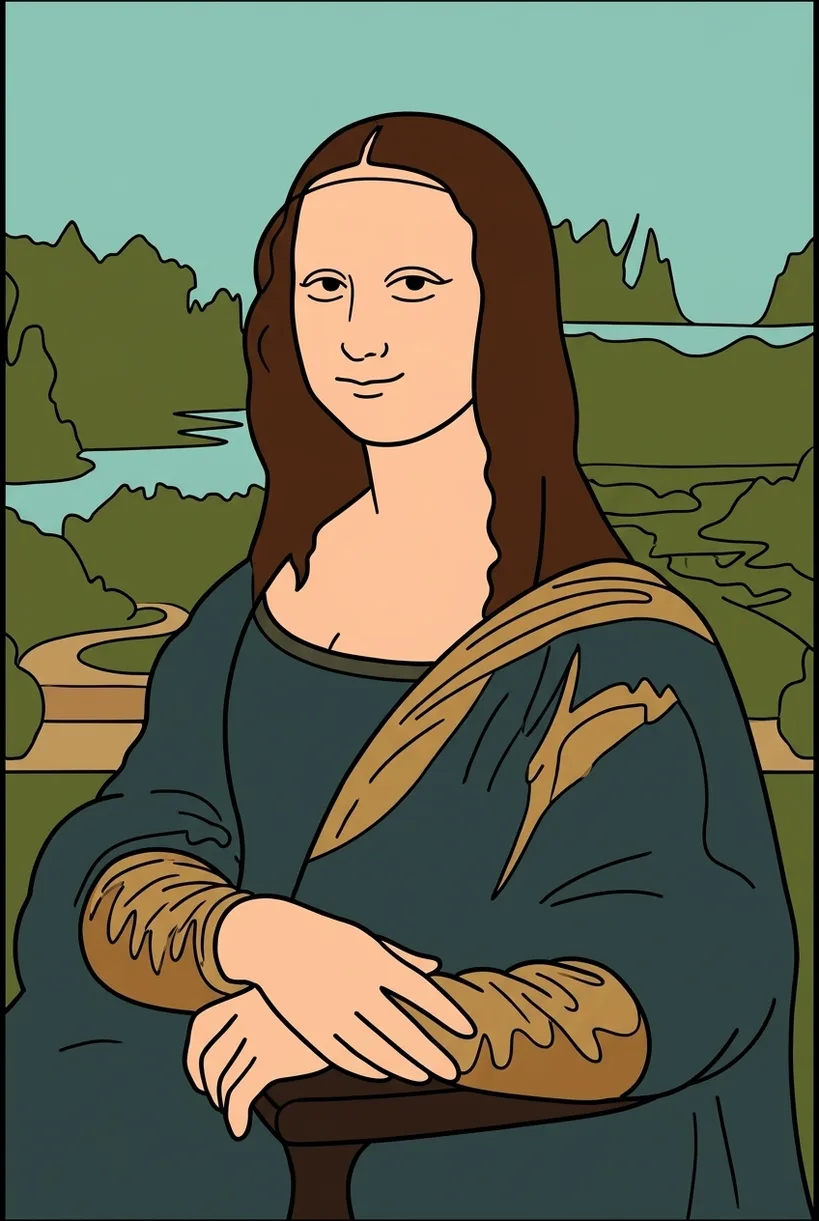
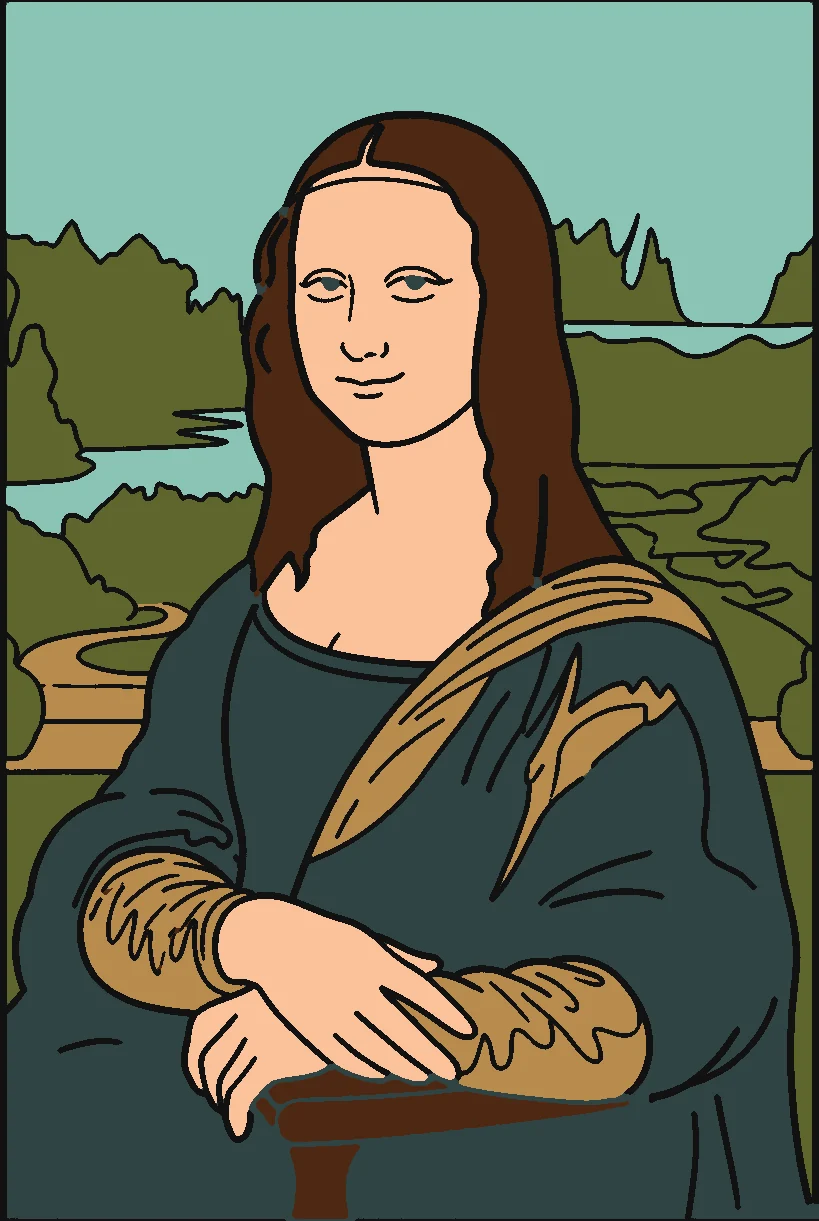
L'Atelier de Léonard : 5 nouveaux tableaux (10 au tirage), modèle aux couleurs exactes du score
Claude-Session: https://claude.ai/code/session_01Miffy7WnxFB7LzgFRDckk2

diff --git a/lib/en.js b/lib/en.js
@@ -851,6 +851,7 @@ E: {
   "Touchez un de vos pots de couleur, puis peignez du doigt sur le tableau. Si le tableau est plus grand que l'écran, faites-le défiler avec la réglette.":"Tap one of your paint pots, then paint on the painting with your finger. If the painting is bigger than the screen, scroll it with the bar.",
   "Choisissez un pot (clic ou touches 1 à 7) et peignez à la souris. La molette fait défiler les grands tableaux.":"Pick a pot (click or keys 1 to 7) and paint with the mouse. The wheel scrolls the big paintings.",
   "Grandes zones d'abord : un fond bien couvert rapporte plus qu'un visage soigné. Et parlez-vous : « qui a le bleu ? »":"Big areas first: a well covered background scores more than a careful face. And talk: “who has the blue?”",
+  "La Sainte Anne":"Saint Anne", "LA SAINTE ANNE":"SAINT ANNE", "La Madone à l'œillet":"Madonna of the Carnation", "LA MADONE À L'ŒILLET":"MADONNA OF THE CARNATION", "La Madone Benois":"Benois Madonna", "LA MADONE BENOIS":"BENOIS MADONNA",
   'Grand Prix Baston':'Grand Prix Baston', 'Grand Prix':'Grand Prix', 'Choisissez votre voiture':'Pick your car', 'Et votre bonus':'And your bonus', '✔ Je suis prêt':"✔ I'm ready", '✔ Prêt ! (changer)':'✔ Ready! (change)', 'Turbo nitro':'Nitro turbo', 'Aéro chasseur':'Fighter-jet aero', 'Pneus chewing-gum':'Chewing-gum tyres', 'Super coup de latte':'Super kick', 'Vos frappes : −10 % de vitesse en plus':'Your strikes: −10 % more speed', 'ZAP !':'ZAP!', 'POUET !':'HONK!', 'Formule':'Formula', 'Coccinelle':'Beetle', 'Fourgon':'Van', '⛽ Essence':'⛽ Fuel', '⛽ ACCÉLÉRER':'⛽ ACCELERATE', '▼ Freiner':'▼ Brake', '💥 FRAPPER':'💥 STRIKE', 'Partez !':'Go!', 'Raté !':'Missed!', 'Dernier tour !':'Last lap!', 'VICTOIRE !':'VICTORY!', '🏁 Arrivé':'🏁 Finished', 'Temps':'Time', 'Meilleur tour':'Best lap', 'Frappes':'Strikes', 'Encaissées':'Taken', 'BAM !':'BAM!', 'Le Ruban':'The Ribbon', 'Le Haricot':'The Bean', 'Le Serpent':'The Snake', 'La Corniche':'The Cliff Road', "L'Hippodrome":'The Racecourse',
   'Les blobs se réveillent…':'The blobs are waking up…', 'Poussez !':'Grow!', 'Fin de la culture':'End of the culture', 'Votre blob a disparu…':'Your blob has vanished…', 'VOTRE BLOB A GAGNÉ !':'YOUR BLOB WON!', 'Énergie':'Energy', 'Surface':'Area', 'Flocons':'Flakes', 'Volé':'Stolen', 'Miettes':'Crumbs',
   '▶ Lancer ce jeu':'▶ Launch this game',

diff --git a/index.html b/index.html
@@ -11771,6 +11771,11 @@ const LA_ART = {
   annonciation:{ n:'L\'Annonciation', w:1500, h:667, pal:['#b7c1c3', '#640d0d', '#98b290', '#ddaa56', '#274e57', '#e0af87', '#ecaa2e'] },
   rochers:{ n:'La Vierge aux rochers', w:794, h:1260, pal:['#b18541', '#394741', '#cad3cb', '#8b222e', '#92a3a3', '#0e5b62'] },
   cene:{ n:'La Cène', w:1386, h:721, pal:['#b58f33', '#f2ecd1', '#413121', '#e42929', '#164c6f', '#c2ac7d', '#3d643d'] },
+  sainteanne:{ n:'La Sainte Anne', w:863, h:1159, pal:['#265c34', '#c28c2a', '#62a8d0', '#dd522a', '#eda374', '#21488d'] },
+  ginevra:{ n:'Ginevra de\' Benci', w:971, h:1030, pal:['#9b6c18', '#f4eccb', '#020201', '#712335', '#7fb2cc'] },
+  ferronniere:{ n:'La Belle Ferronnière', w:832, h:1202, pal:['#911e2f', '#2c5036', '#e89f6d', '#341c15', '#d09b2c', '#8e7356', '#030402'] },
+  oeillet:{ n:'La Madone à l\'œillet', w:876, h:1142, pal:['#236439', '#f79d82', '#a2a2a2', '#77b9e1', '#c81b40', '#b9871d'] },
+  benois:{ n:'La Madone Benois', w:799, h:1252, pal:['#63907f', '#1c517f', '#3c1714', '#faa372', '#c31d40', '#d09d48'] },
 };
 // the pool of paintings; each game draws LA_N of them at random, in a random order
 const LA_POOL = Object.keys(LA_ART), LA_N = 3;
@@ -12173,7 +12178,7 @@ function laIntro(ctx, now){
   const Y = R*1.35 + R*2.1 - V.vh*.36;
   ctx.textAlign = 'center'; ctx.lineJoin = 'round';
   ctx.font = Math.round(Math.min(34, V.vw/11)) + 'px Bangers, Impact, sans-serif'; ctx.lineWidth = 5; ctx.strokeStyle = '#000'; ctx.fillStyle = '#FFD93B';
-  ctx.strokeText(a.n.toUpperCase(), cx, (Y + V.vh*.36)); ctx.fillText(a.n.toUpperCase(), cx, (Y + V.vh*.36));
+  ctx.strokeText(a.n.toUpperCase(), cx, (Y + V.vh*.36), V.vw - 16); ctx.fillText(a.n.toUpperCase(), cx, (Y + V.vh*.36), V.vw - 16);
   ctx.font = '900 15px Nunito, sans-serif'; ctx.fillStyle = '#000';
   ctx.fillText('Tableau ' + (LA.k + 1) + ' sur ' + LA_ORDER.length + ' · ' + LA_MEMO + ' s pour regarder, ' + LA_PAINT + ' s pour peindre', cx, (Y + V.vh*.36) + 26, V.vw - 16);
   if (!LA.spec){
